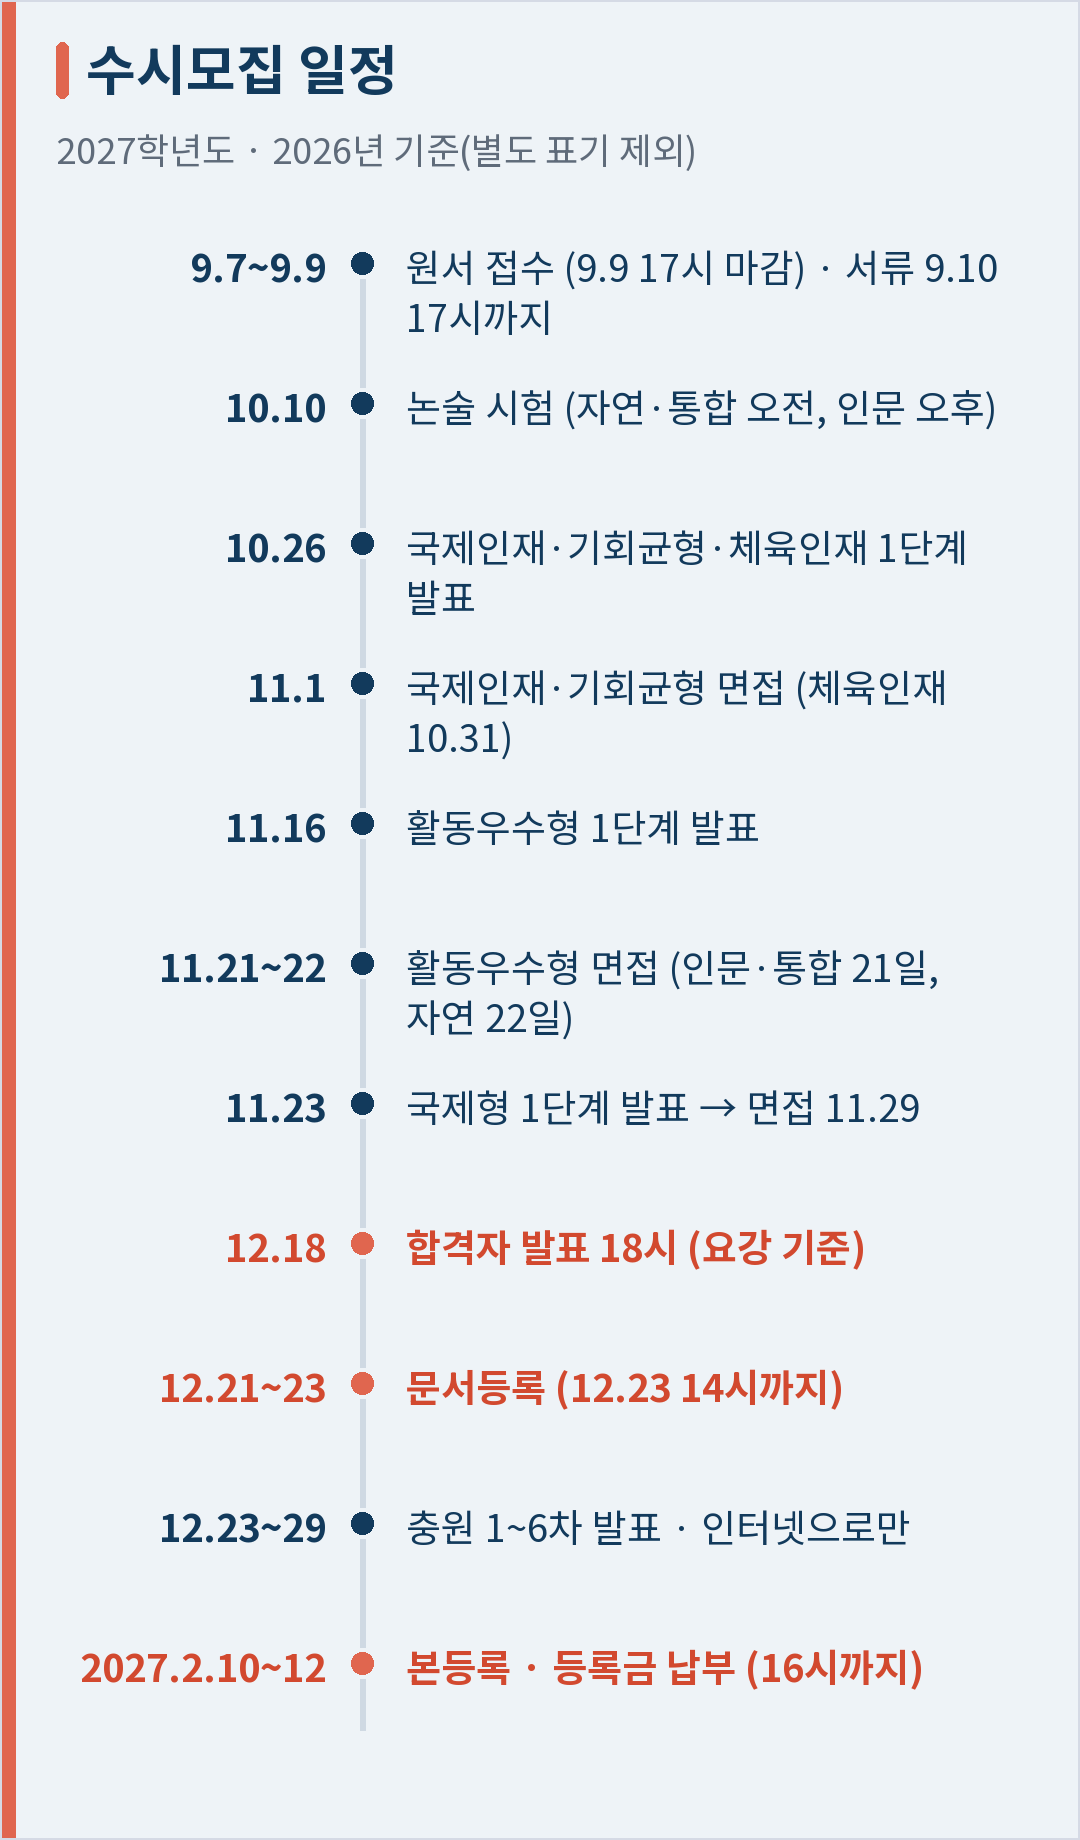
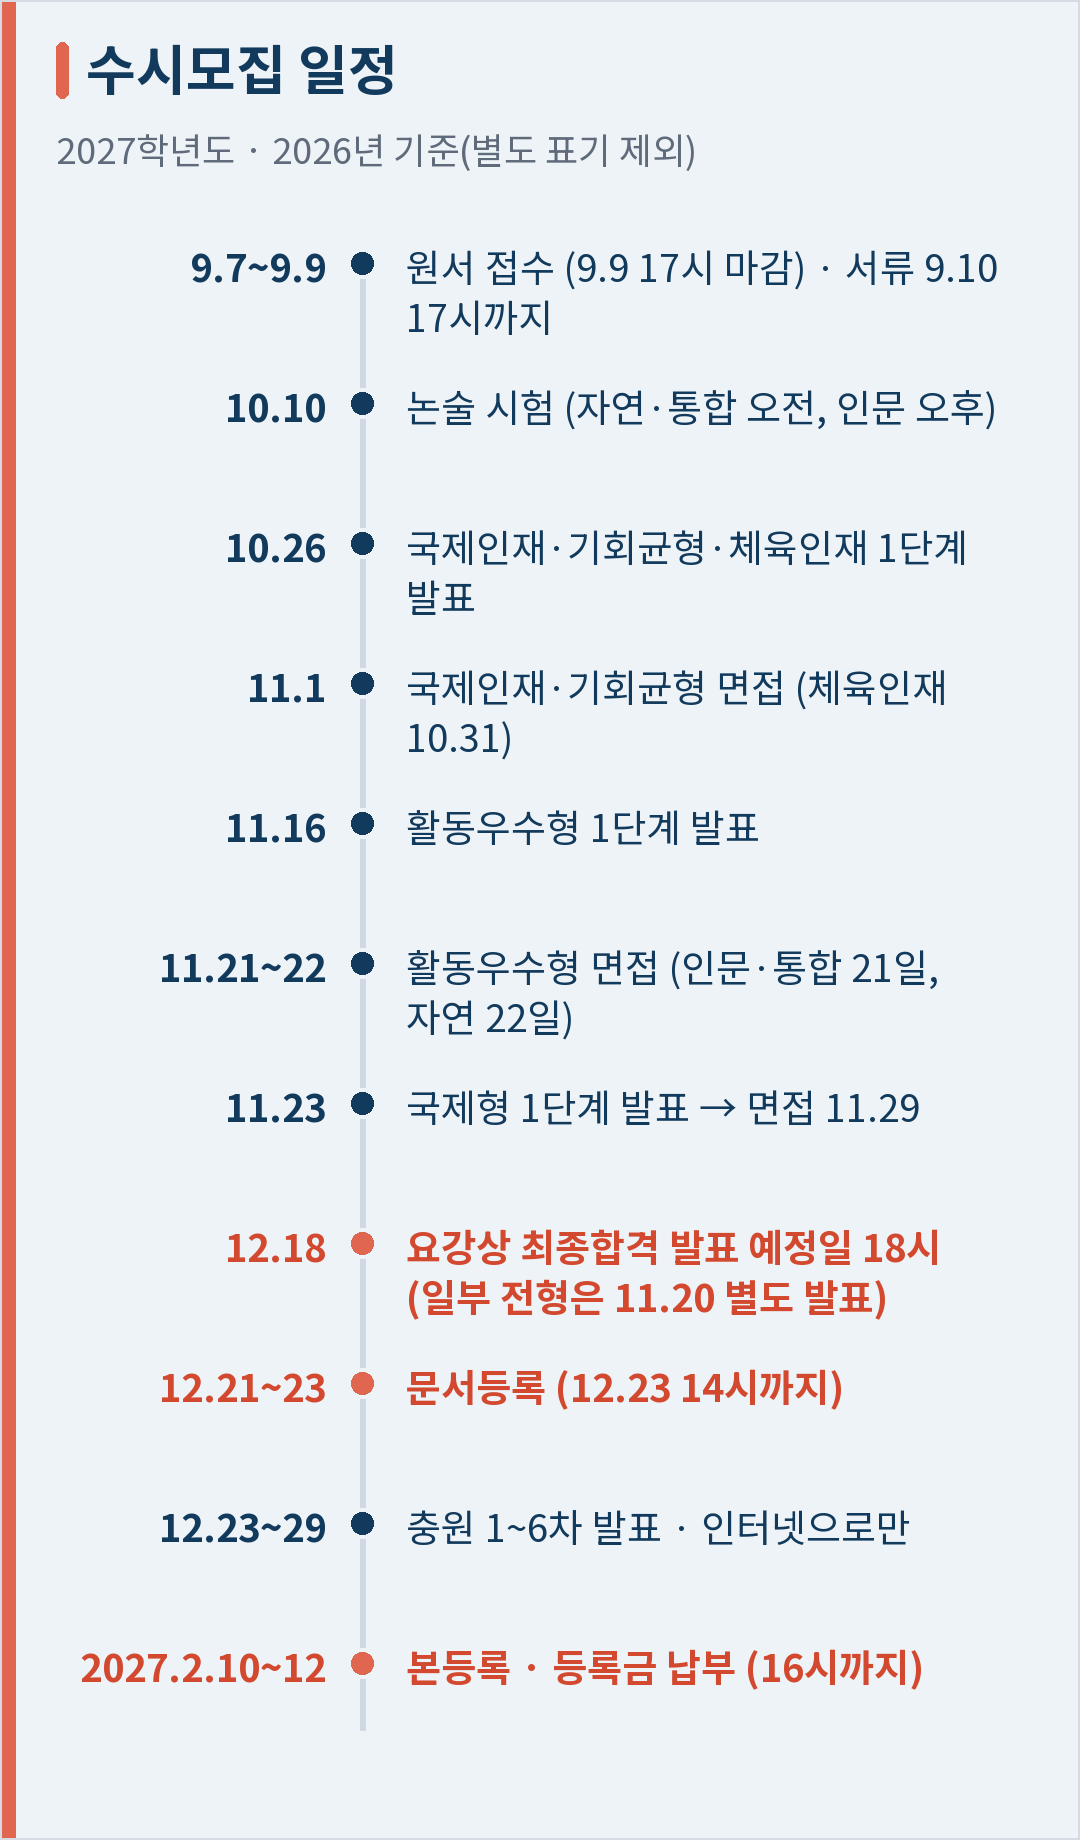
연세대 입시 글: 외부 검수 반영
- 정원 내·외 설명, 첨단약과학과 전형별 인원·국제캠퍼스, 국제형·국제인재 모집단위 구분
- 12.18은 요강상 발표 예정일·일부 전형 11.20 별도 발표, 전체 경쟁률은 정원 외 포함, 정시 의예·국제계열 단계 구분, 2028 추천형 변경 구체화
- 신설·분리 학과는 전년도 결과 없음 안내, 교과등급 50%·70% 설명 다듬기
- 그림 03·04·06 고침

Changed region(s): [[0.3667, 0.6505, 0.8556, 0.7125]]

diff --git a/문서/네이버-코딩가이드/20261125_연세대-2027-입시/index.html b/문서/네이버-코딩가이드/20261125_연세대-2027-입시/index.html
@@ -5,7 +5,7 @@
 카테고리: 수능·모의고사
 태그: #연세대입시 #연세대수시 #연세대정시 #2027학년도 #연세대추천형 #연세대활동우수형 #연세대논술 #연세대경쟁률 #대학입시
 검색 설명: 연세대(서울캠퍼스) 2027학년도 수시·정시 모집인원, 7가지 수시 전형, 수능최저, 정시 수능 반영 방법, 경쟁률, 2026학년도 공식 선발결과(교과등급·충원 순위)를 입학처 자료 기준으로 정리했습니다.
-글자 수: 본문 공백 포함 8,387자 / 공백 제외 6,348자
+글자 수: 본문 공백 포함 9,214자 / 공백 제외 7,010자
 시리즈: 네이버-코딩가이드-대학입시2027-연재.md 2번 대학. 글자 수 제한 없음.
 [이미지 순서] (도식 디자인: 옅은 회청 바탕 #eef3f7 · 짙은 감청 #123a5c · 하늘 #5b9bc8 · 산호 #e0664f, 제목 앞 산호 막대)
 01 타이틀(ChatGPT 요청, 1:1)
@@ -50,7 +50,7 @@
 <p>&nbsp;</p>
 <h3 style="font-size:18px;margin:24px 0 8px;">✦ 먼저 알아 두면 쉬운 말</h3>
 <p style="font-size:16px;">요강에 자주 나오는 말을 먼저 풀어 둡니다.</p>
-<p style="font-size:16px;">&nbsp;&nbsp;&nbsp;• <b>정원 내·정원 외</b>: 정원 내는 학교 입학정원 안에서 뽑는 인원, 정원 외는 정원과 따로 뽑는 인원입니다(계약학과, 고른기회 등).</p>
+<p style="font-size:16px;">&nbsp;&nbsp;&nbsp;• <b>정원 내·정원 외</b>: 정원 내는 대학이 정한 입학정원 안에서 뽑는 인원이고, 정원 외는 법령 기준에 따라 정원과 따로 더 뽑는 인원입니다. 연세대는 계약학과와 정시 고른기회(연세한마음학생·농어촌학생·특성화고교졸업자) 등이 정원 외입니다. 수시 기회균형 190명은 정원 내입니다.</p>
 <p style="font-size:16px;">&nbsp;&nbsp;&nbsp;• <b>4배수·3배수</b>: 1단계에서 모집인원의 몇 배를 통과시키는지입니다. 10명을 뽑는 학과가 4배수면 1단계에서 40명이 면접을 봅니다.</p>
 <p style="font-size:16px;">&nbsp;&nbsp;&nbsp;• <b>수능최저 "2개 과목 등급 합 4"</b>: 예를 들어 국어 2등급 + 수학 2등급이면 합이 4라서 통과입니다. 국어 2등급 + 수학 3등급이면 5라서 못 맞춘 것입니다.</p>
 <p style="font-size:16px;">&nbsp;&nbsp;&nbsp;• <b>문서등록</b>: 돈을 내지 않고 온라인으로 "이 학교에 다니겠다"는 뜻만 밝히는 수시 등록 절차입니다. 등록금은 2월에 냅니다.</p>
@@ -74,7 +74,7 @@
 <p>&nbsp;</p>
 <h3 style="font-size:18px;margin:24px 0 8px;">✦ 올해 달라진 점</h3>
 <p style="font-size:16px;">&nbsp;&nbsp;&nbsp;• 첨단컴퓨팅학부가 컴퓨터과학과, 인공지능학과, 인공지능시스템학과로 나뉘어 뽑습니다.</p>
-<p style="font-size:16px;">&nbsp;&nbsp;&nbsp;• 약학대학에 첨단약과학과(15명)가 생겼습니다. 4년 과정이고 약사 면허 시험 응시 자격은 주지 않습니다.</p>
+<p style="font-size:16px;">&nbsp;&nbsp;&nbsp;• 약학대학에 첨단약과학과가 생겨 15명을 뽑습니다(수시 추천형 4명, 활동우수형 6명, 정시 '가'군 5명). 4년 과정이고 약사 면허 취득시험 응시 자격은 주지 않습니다. AI·데이터 기반 신약개발을 가르치는 학과이고, 약학대학이라 전 교육과정을 국제캠퍼스(송도)에서 이수합니다.</p>
 <p style="font-size:16px;">&nbsp;&nbsp;&nbsp;• 응용통계학과가 통합계열로 바뀌었습니다.</p>
 <p style="font-size:16px;">&nbsp;&nbsp;&nbsp;• 치의예과는 논술전형으로 뽑지 않습니다.</p>
 <p style="font-size:16px;">&nbsp;&nbsp;&nbsp;• 국제인재가 특기자전형에서 학생부종합전형으로 바뀌었습니다. 전형 방법은 같습니다.</p>
@@ -89,8 +89,8 @@
 <h2 style="font-size:24px;margin:40px 0 12px;">수시모집 일정</h2>
 <p style="font-size:16px;">원서 접수는 2026년 9월 7일부터 9일 17시까지였습니다.</p>
 <p style="font-size:16px;color:#e60000;font-weight:bold;">[[ 이미지: 수시모집 일정 (03-수시-일정.png) ]]</p>
-<p style="font-size:16px;">요강에는 모든 전형의 합격자 발표가 12월 18일 18시로 적혀 있습니다.</p>
-<p style="font-size:16px;">다만 입학처 공지사항에는 2026년 11월 20일에 '최종합격자 발표[논술전형, 국제인재, 기회균형, 체육인재, 특수교육대상자전형]' 공지가 올라왔습니다.<br>이 전형에 지원했다면 입학처 공지를 먼저 확인하세요.</p>
+<p style="font-size:16px;">모집요강에는 최종합격자 발표일이 12월 18일 18시로 적혀 있습니다.</p>
+<p style="font-size:16px;">다만 일부 전형은 입학처가 별도 일정을 공지했습니다. 2026년 11월 20일에 논술·국제인재·기회균형·체육인재·특수교육대상자전형의 최종합격자 발표 공지가 올라왔습니다.<br>지원한 전형의 최신 발표 일정은 입학처 공지사항에서 확인하세요.</p>
 <p style="font-size:16px;">수시 등록은 예치금이 아니라 문서등록입니다.<br>12월 21일 10시부터 23일 14시까지 하고, 등록금은 2027년 2월 10일~12일에 냅니다.</p>
 <p style="font-size:16px;">충원은 6차까지 하고, 인터넷으로만 발표합니다.<br>요강에 '전화충원은 하지 않음'이라고 적혀 있습니다.</p>
 
@@ -120,7 +120,7 @@
 
 <p>&nbsp;</p>
 <h3 style="font-size:18px;margin:24px 0 8px;">✦ 국제형·국제인재</h3>
-<p style="font-size:16px;">언더우드국제대학과 글로벌인재대학을 뽑는 전형입니다.</p>
+<p style="font-size:16px;">국제형은 언더우드국제대학과 글로벌인재학부를 뽑고, 국제인재는 언더우드국제대학의 언더우드학부를 뽑습니다.<br>글로벌인재학부는 국제형(해외고/검정고시)으로만, 그중에서도 외국 소재 고교 졸업(예정)자만 지원할 수 있습니다.</p>
 <p style="font-size:16px;">&nbsp;&nbsp;&nbsp;• <b>국제형(국내고)</b>: 국내 고교 졸업(예정)자, 1단계 5배수. 아시아학전공, 융합인문사회과학부(HASS), 융합과학공학부(ISE)</p>
 <p style="font-size:16px;">&nbsp;&nbsp;&nbsp;• <b>국제형(해외고/검정고시)</b>: 외국 고교 졸업(예정)자·검정고시 등, 1단계 3배수</p>
 <p style="font-size:16px;">&nbsp;&nbsp;&nbsp;• <b>국제인재</b>: 국내 고교 졸업(예정)자, 언더우드학부 120명, 1단계 3배수, 영어 구술 면접</p>
@@ -153,7 +153,8 @@
 <p>&nbsp;</p>
 <hr style="border:none;border-top:1px solid #cfcfcf;margin:8px 0;">
 <h2 style="font-size:24px;margin:40px 0 12px;">경쟁률과 지난해 선발결과</h2>
-<p style="font-size:16px;">2027학년도 수시 최종 경쟁률은 14.02 대 1입니다.<br>2,186명 모집(계약학과·특수교육 포함)에 30,651명이 지원했습니다.</p>
+<p style="font-size:16px;">2027학년도 수시 최종 경쟁률은 14.02 대 1입니다.<br>2,186명 모집에 30,651명이 지원했습니다.</p>
+<p style="font-size:16px;">이 2,186명은 앞에서 말한 정원 내 2,075명에 계약학과와 특수교육대상자 등 정원 외 모집을 더한 숫자입니다.<br>전형별 경쟁률은 각 전형의 모집인원(계약학과 포함)과 지원자 수로 계산한 값입니다.</p>
 <p style="font-size:16px;color:#e60000;font-weight:bold;">[[ 이미지: 수시 경쟁률 비교 (06-수시-경쟁률.png) ]]</p>
 <p style="font-size:16px;">&nbsp;&nbsp;&nbsp;• 추천형 4.86 대 1 (2026학년도 6.28)</p>
 <p style="font-size:16px;">&nbsp;&nbsp;&nbsp;• 활동우수형 10.11 대 1 (11.07)</p>
@@ -168,7 +169,7 @@
 <p style="font-size:16px;">연세대는 「2026학년도 대입 선발결과(수시)」를 입학처 자료실에 공개했습니다.</p>
 <p style="font-size:16px;">모집단위마다 경쟁률, 충원합격순위, 최종 등록자 학생부 교과등급(50%·70%)이 들어 있습니다.</p>
 <p style="font-size:16px;color:#e60000;font-weight:bold;">[[ 이미지: 2026 수시 등록자 교과등급 (07-수시-등록자-교과등급.png) ]]</p>
-<p style="font-size:16px;">50%는 최종 등록자를 성적순으로 세웠을 때 가운데 지점의 등급입니다.<br>70%는 그보다 아래쪽(70% 지점)의 등급입니다.</p>
+<p style="font-size:16px;">50% 값은 최종 등록자의 성적 분포에서 50% 지점에 해당하는 학생부 교과등급이고, 70% 값은 70% 지점의 등급입니다.<br>숫자가 작을수록 교과등급이 높습니다.</p>
 <p style="font-size:16px;">&nbsp;&nbsp;&nbsp;• 의예과: 추천형 1.00, 활동우수형 1.06</p>
 <p style="font-size:16px;">&nbsp;&nbsp;&nbsp;• 경영학과: 추천형 1.24, 활동우수형 1.62</p>
 <p style="font-size:16px;">&nbsp;&nbsp;&nbsp;• 전기전자공학부: 추천형 1.19, 활동우수형 1.52</p>
@@ -176,6 +177,7 @@
 <p style="font-size:16px;">표에 실린 학과 대부분에서 추천형 등급이 활동우수형보다 높습니다(숫자가 작음).<br>추천형은 교과 성적만으로 뽑는 전형이라 이런 차이가 나타난 것으로 볼 수 있습니다. 약학과처럼 반대인 곳도 있습니다.</p>
 <p style="font-size:16px;">충원합격순위는 보통 예비 번호 몇 번까지 합격했는지를 뜻하는 값으로 읽습니다.<br>추천형 경영학과 56, 전기전자공학부 55처럼 큰 곳도 있고, 의예과 5처럼 작은 곳도 있습니다.</p>
 <p style="font-size:16px;">지난해 등급은 2026학년도 기준입니다.<br>올해 결과를 정하는 것은 아니니 참고로만 보세요.</p>
+<p style="font-size:16px;">2027학년도에 새로 생기거나 나뉜 모집단위(첨단약과학과, 컴퓨터과학과·인공지능학과·인공지능시스템학과)는 같은 모집단위의 지난해 경쟁률과 결과가 없습니다.<br>2026학년도 첨단컴퓨팅학부 결과를 그대로 옮겨 보기보다 모집인원, 전형 방식, 지원 자격을 중심으로 살펴보세요.</p>
 
 <p>&nbsp;</p>
 <hr style="border:none;border-top:1px solid #cfcfcf;margin:8px 0;">
@@ -200,7 +202,10 @@
 <p style="font-size:16px;">배점 합계가 유형마다 다르기 때문에(800·900·600점) 모두 950점 만점으로 바꿔서 계산합니다.<br>예를 들어 유형 Ⅰ에서 800점 만점 중 720점을 받았다면 720 × 950 ÷ 800 = 855점입니다.</p>
 <p style="font-size:16px;">인문계열이 사회탐구를, 자연계열이 과학탐구를 보면 그 과목 변환점수에 3%를 더해 줍니다.</p>
 <p style="font-size:16px;">영어는 등급별 점수입니다. 1등급 100, 2등급 95, 3등급 87.5, 4등급 75점입니다.<br>한국사는 4등급까지 감점이 없고 5등급부터 0.2점씩 뺍니다.</p>
-<p style="font-size:16px;">의예과는 수능·학생부로 2.5배수, 국제계열은 3배수를 뽑은 뒤 면접 50점을 더합니다.</p>
+<p style="font-size:16px;">의예과와 국제계열(언더우드국제대학)은 단계별로 뽑습니다.</p>
+<p style="font-size:16px;">&nbsp;&nbsp;&nbsp;• <b>의예과</b>: 1단계에서 수능 900 + 학생부 50으로 모집인원의 2.5배수를 뽑고, 2단계에서 면접 50점을 더해 1,000점으로 선발</p>
+<p style="font-size:16px;">&nbsp;&nbsp;&nbsp;• <b>국제계열</b>: 1단계에서 같은 방식으로 3배수를 뽑고, 2단계에서 면접 50점을 더해 1,000점으로 선발</p>
+<p style="font-size:16px;">두 면접은 1월 17일에 보고, 세부 평가 방식은 정시모집요강의 해당 전형 항목에서 확인할 수 있습니다.</p>
 
 <p>&nbsp;</p>
 <h3 style="font-size:18px;margin:24px 0 8px;">✦ 지난해 정시 경쟁률</h3>
@@ -240,7 +245,7 @@
 <p>&nbsp;</p>
 <h3 style="font-size:18px;margin:24px 0 8px;">✦ 2028학년도는 꽤 바뀝니다</h3>
 <p style="font-size:16px;">요강 앞쪽에 2028학년도 예고가 실려 있습니다. 지금 고2라면 알아 두세요.</p>
-<p style="font-size:16px;">&nbsp;&nbsp;&nbsp;• 추천형이 1단계 교과(5배수) → 2단계 교과 80 + 서류 20으로 바뀝니다.</p>
+<p style="font-size:16px;">&nbsp;&nbsp;&nbsp;• 추천형이 교과 100% 일괄합산에서 단계별 전형으로 바뀝니다. 1단계에서 교과 성적으로 5배수를 뽑고, 2단계에서 교과 80% + 서류평가 20%를 반영합니다(전 모집단위 수능최저 적용).</p>
 <p style="font-size:16px;">&nbsp;&nbsp;&nbsp;• 활동우수형·국제형 등이 종합인재형, 탐구인재형으로 개편됩니다.</p>
 <p style="font-size:16px;">&nbsp;&nbsp;&nbsp;• 논술전형에 수능최저가 생깁니다.</p>
 <p style="font-size:16px;">&nbsp;&nbsp;&nbsp;• 정시 학생부 정량평가 50점이 없어지고 서류평가 100점이 생깁니다.</p>
@@ -258,7 +263,7 @@
 <p>&nbsp;</p>
 <hr style="border:none;border-top:1px solid #cfcfcf;margin:8px 0;">
 <h2 style="font-size:24px;margin:40px 0 12px;">달력에 먼저 적어 둘 날</h2>
-<p style="font-size:16px;">&nbsp;&nbsp;&nbsp;• <b>12월 18일</b> 수시 합격자 발표(요강 기준) → 12월 21~23일 문서등록</p>
+<p style="font-size:16px;">&nbsp;&nbsp;&nbsp;• <b>12월 18일</b> 모집요강상 수시 최종합격자 발표 예정일(일부 전형은 11월 20일 별도 발표) → 12월 21~23일 문서등록</p>
 <p style="font-size:16px;">&nbsp;&nbsp;&nbsp;• <b>12월 23일~29일</b> 수시 충원 1~6차 (인터넷 발표)</p>
 <p style="font-size:16px;">&nbsp;&nbsp;&nbsp;• <b>12월 31일</b> 정시 모집인원 변경 게시</p>
 <p style="font-size:16px;">&nbsp;&nbsp;&nbsp;• <b>1월 4일~6일</b> 정시 원서 접수</p>

diff --git a/네이버-코딩가이드-대학입시2027-연재.md b/네이버-코딩가이드-대학입시2027-연재.md
@@ -146,3 +146,4 @@
 - 2026-11-25: 사용자 지시로 KAIST·포스텍을 일반 대학 순서에서 빼고 '특수대학 목록'(과학기술원·사관학교·경찰·예술·전통·교원 양성)을 따로 만들었다. 일반 대학 20곳의 빈자리는 숙명여대·국민대로 채움. 특수대학은 일반 대학을 다 하거나 따로 요청할 때 만든다.
 - 2026-11-25: 비교 구성을 세 층(본문 한 줄 / 고정 소제목 '다른 대학과 견주어 보면' / 주제별 비교 글)으로 정함(사용자 결정). 연세대 글의 소제목 '서울대와 비교하면 무엇이 다를까?'를 '다른 대학과 견주어 보면'으로 바꾸고, 비교 그림 제목도 '다른 대학과 견주어 보면'(부제 '서울대와 연세대')으로 바꿈. 내용은 그대로.
 - 2026-11-25: 비교 대학 고르는 기준 기록(위아래 3~4곳이 후보, 글에는 쓴 대학 2~3곳, 본문 서열 표현 금지, 대학 전체 제도 위주, 주제별 비교 글도 가까운 묶음으로).
+- 2026-11-25: 연세대 외부 검수 반영(공백 포함 9,214자). 요강 원문으로 확인해 아홉 가지 모두 반영: 정원 내·외 설명(수시 기회균형은 정원 내, 정시 고른기회는 정원 외), 첨단약과학과 전형별 인원(추천 4·활동우수 6·정시 5)과 국제캠퍼스 이수·AI 신약개발 학과(요강 Ⅸ_11), 12.18은 '요강상 발표 예정일'·일부 전형 11.20 별도 발표(본문·달력·그림 03), 국제형 국내고 5배수·해외고 3배수(그림 04), 국제형·국제인재 모집단위 구분(글로벌인재학부는 국제형 해외고만), 교과등급 50%·70% 지점 설명, 전체 경쟁률 2,186명은 정원 외 포함(본문·그림 06), 정시 의예·국제계열 단계 나눠 설명, 2028 추천형 변경 구체화. 추가 제안 두 가지(첨단약과학과 국제캠퍼스, 신설·분리 학과는 전년도 결과 없음)도 반영. 그림 07 점마다 숫자 붙이기는 의예과처럼 두 점이 붙은 줄에서 겹치고 주요 숫자가 본문에 있어 반영하지 않음.
